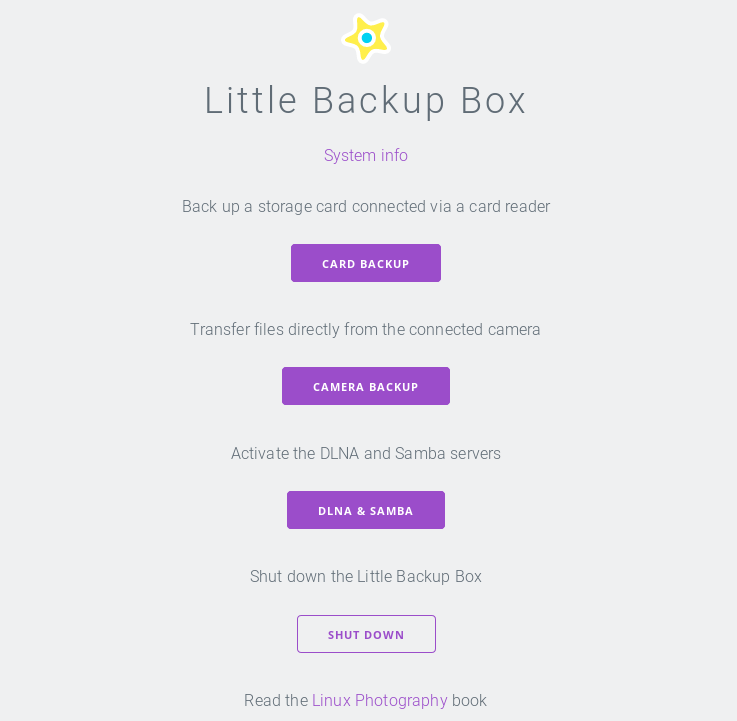
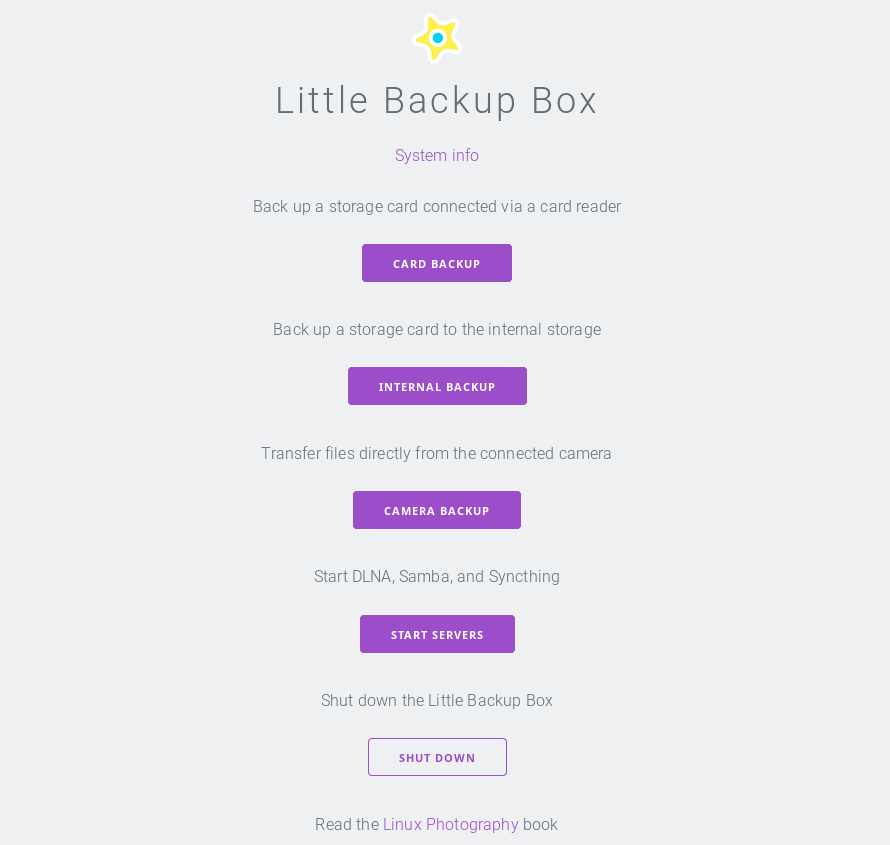
Re-implement internal backup

diff --git a/scripts/index.php b/scripts/index.php
@@ -38,6 +38,12 @@
                     <button name="cardbackup">Card backup</button>
 		</form>
             </p>
+	    <p>Back up a storage card to the internal storage</p>
+            <p>
+		<form method="post">
+                    <button name="internalbackup">Internal backup</button>
+		</form>
+            </p>
             <p>Transfer files directly from the connected camera</p>
             <p>
 		<form method="post">
@@ -65,6 +71,13 @@
 		echo 'alert("Card backup initiated.")';
 		echo '</script>';
 	    }
+	    if (isset($_POST['internalbackup']))
+	    {
+		shell_exec('sudo ./internal-backup.sh > /dev/null 2>&1 & echo $!');
+		echo '<script language="javascript">';
+		echo 'alert("Internal backup initiated.")';
+		echo '</script>';
+	    }
 	    if (isset($_POST['camerabackup']))
 	    {
 		shell_exec('sudo ./camera-backup.sh > /dev/null 2>&1 & echo $!');
@@ -75,7 +88,7 @@
 	    if (isset($_POST['servers']))
 	    {
 		shell_exec('sudo ./start-servers.sh > /dev/null 2>&1 & echo $!');
-        sleep(5); # Give Syncthing time to start
+		sleep(5); # Give Syncthing time to start
 		echo '<script language="javascript">';
 		echo 'alert("DLNA, Samba, and Syncthing are up and running.")';
 		echo '</script>';
